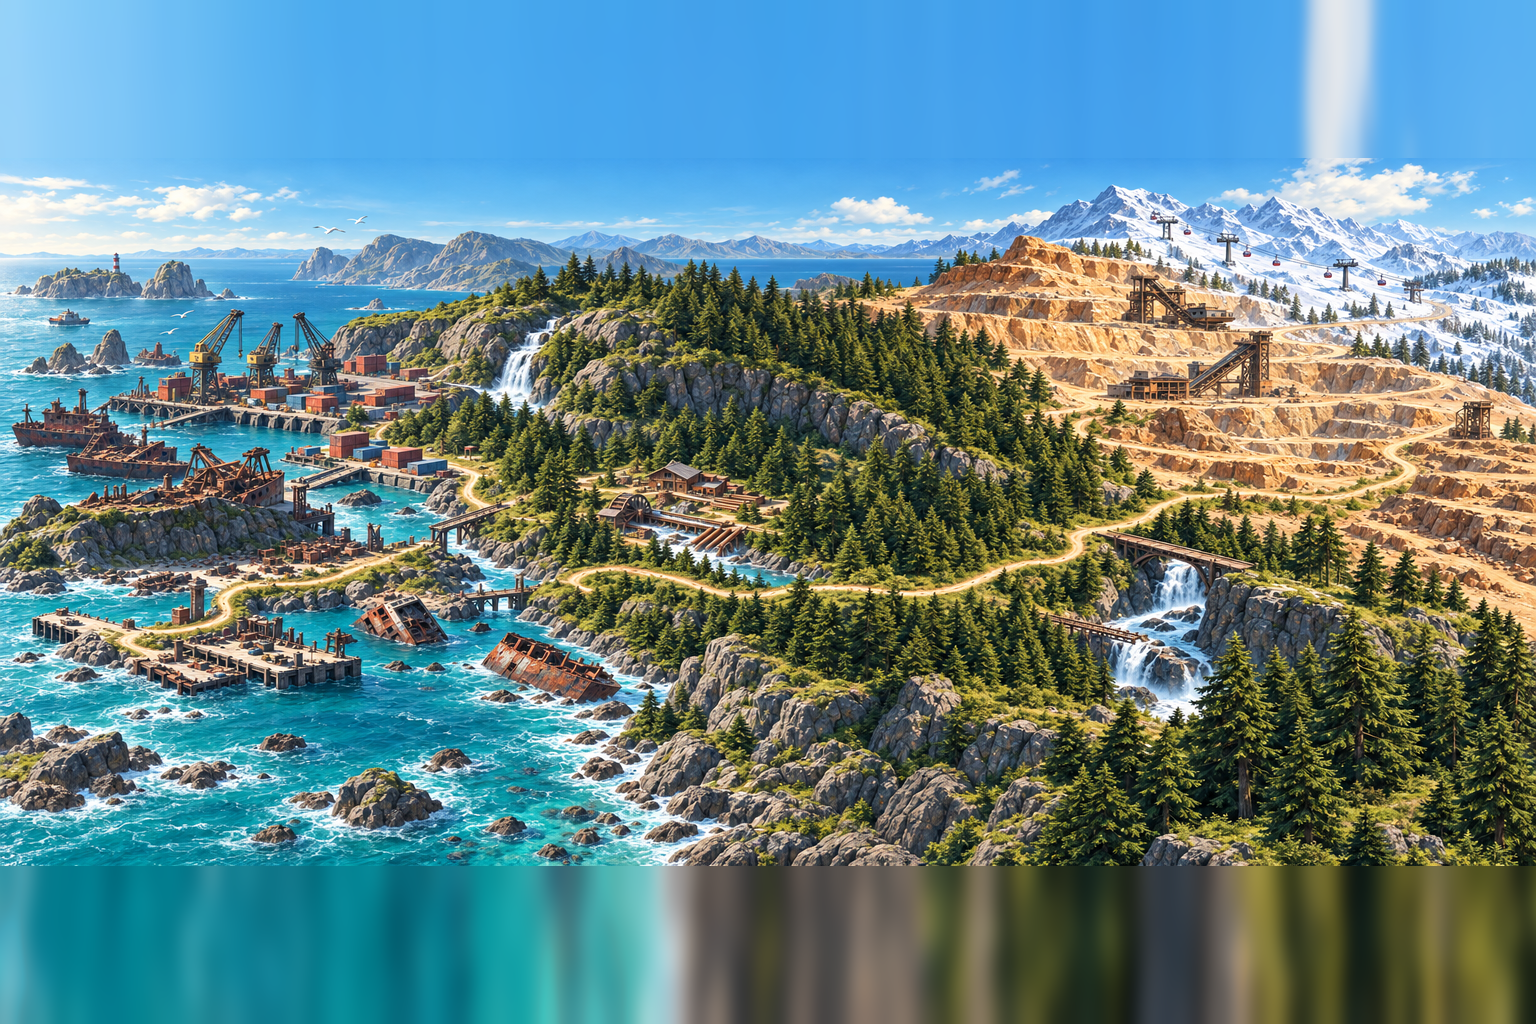
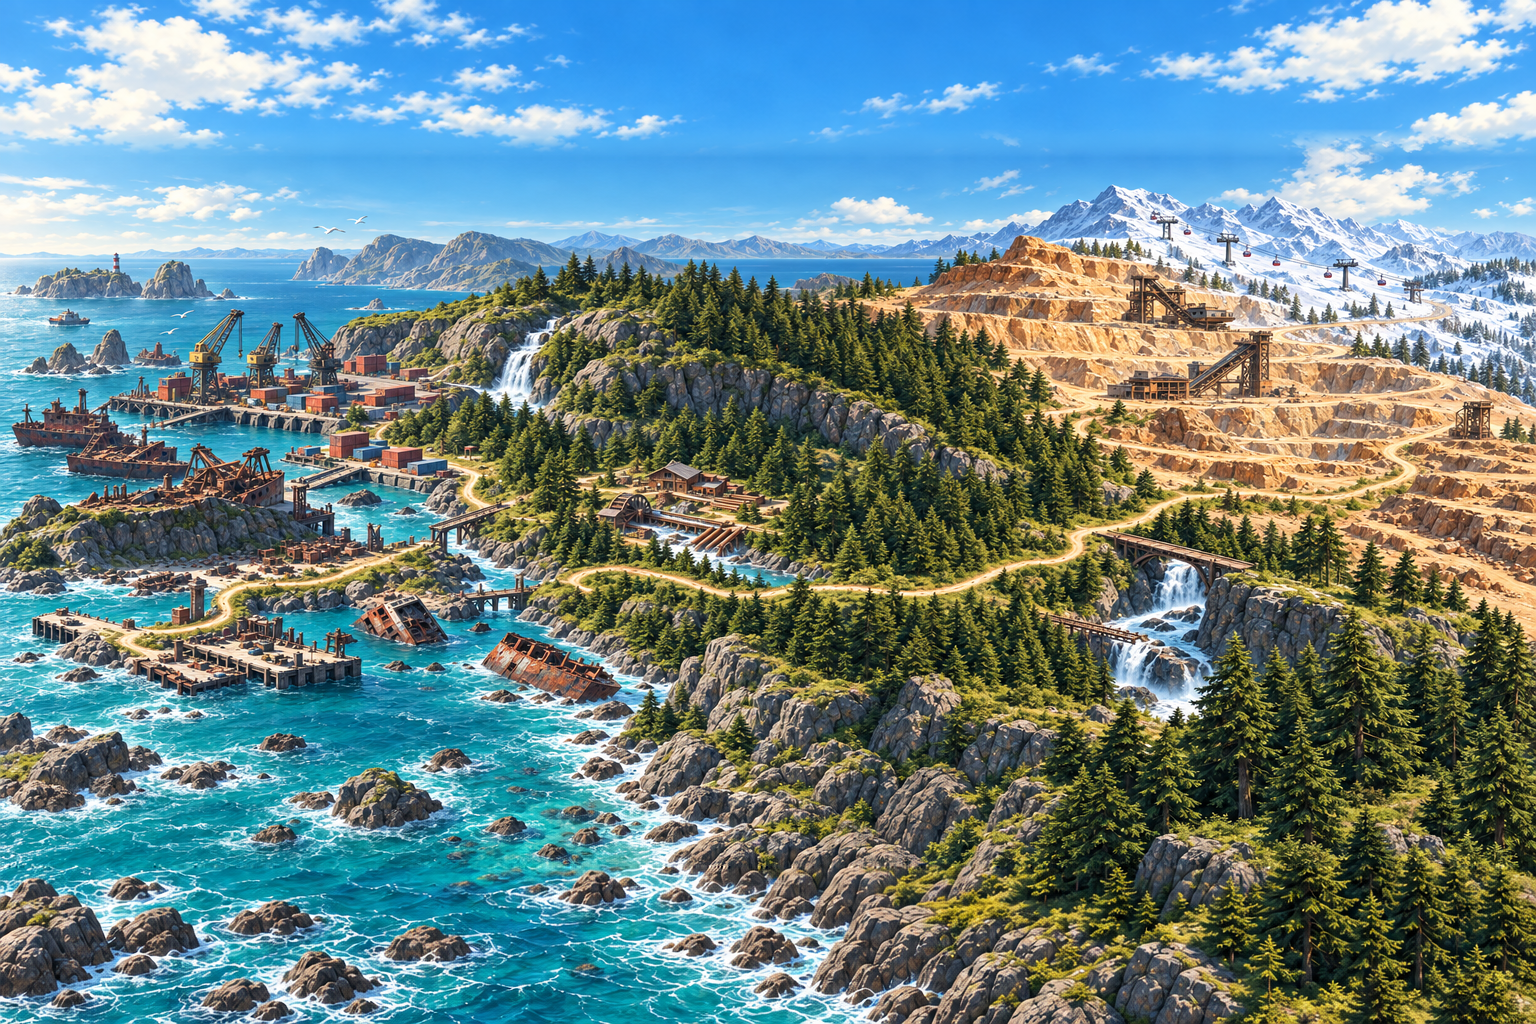
World map plate outpainted for real: the top and bottom 158 rows are painted sky and shore, not a smeared fill
Codex image_gen (brief assets/design/store-release/world/briefs/map3.md, three parallel runs) was given the
W-worldmap band y 158..866 on grey bands and painted only the bands: the band is pixel-identical to round 1
(RMSE 0 over the band and over 20-row strips at both seams), so every Brand/UI anchor is where it was. Run c
kept: clean sky with cumulus above (no light-beam streak), surf, granite and pines below, seams invisible
at full size; run b had a grey hairline at y 866. `node assets/art/worldmap.mjs --store` encodes it under the
350 KB cap: world-1536 349 KB (q58), world-1024 271 KB (q82). Lazy (world map only), never on the boot set.

diff --git a/src/boot/plan.generated.ts b/src/boot/plan.generated.ts
@@ -20,10 +20,10 @@ export const PUBLIC_BYTES = {
   "art/worldmap/region-snow-1536.webp": 275468,
   "art/worldmap/region-snowline-1024.webp": 93292,
   "art/worldmap/region-snowline-1536.webp": 125386,
-  "art/worldmap/world-1024.webp": 150390,
-  "art/worldmap/world-1536.webp": 293040,
+  "art/worldmap/world-1024.webp": 277298,
+  "art/worldmap/world-1536.webp": 356926,
   "art/worldmap/worldmap.json": 4021,
-  "art:apple-touch-icon": 4529,
+  "art:apple-touch-icon": 18187,
   "art:banner-apex-suspension": 60508,
   "art:banner-bolt-energy": 53096,
   "art:banner-kestrel-tyres": 46692,
@@ -37,26 +37,30 @@ export const PUBLIC_BYTES = {
   "art:bike-rookie-alt": 63174,
   "art:crowd-day": 119396,
   "art:crowd-night": 115990,
-  "art:emblem-512": 46818,
-  "art:favicon-16": 385,
-  "art:favicon-32": 689,
-  "art:favicon-svg": 4173,
+  "art:emblem-512": 131020,
+  "art:favicon-16": 452,
+  "art:favicon-32": 1201,
+  "art:favicon-svg": 253,
   "art:garage-plate": 141300,
   "art:graffiti-grind": 40586,
   "art:graffiti-skull": 33308,
   "art:graffiti-tag-wall": 40446,
   "art:graffiti-wheel": 39478,
-  "art:icon-1024": 46546,
-  "art:icon-192": 4713,
-  "art:icon-512": 18575,
-  "art:icon-maskable-192": 3432,
-  "art:icon-maskable-512": 11956,
+  "art:icon-1024": 398506,
+  "art:icon-192": 19643,
+  "art:icon-512": 131020,
+  "art:icon-maskable-192": 20372,
+  "art:icon-maskable-512": 134540,
   "art:keyart-canyon-1920": 231662,
   "art:keyart-canyon-960": 79316,
+  "art:keyart-harbour-1920": 474096,
+  "art:keyart-harbour-960": 163236,
   "art:keyart-industrial-1920": 263302,
   "art:keyart-industrial-960": 92208,
   "art:keyart-nalati-1920": 236120,
   "art:keyart-nalati-960": 97812,
+  "art:keyart-quarry-1920": 393248,
+  "art:keyart-quarry-960": 138678,
   "art:kit-pro": 71660,
   "art:kit-rookie": 60702,
   "art:loading-plate": 73326,
@@ -64,15 +68,15 @@ export const PUBLIC_BYTES = {
   "art:mask-grime-spatter": 118068,
   "art:mask-rivet-drips": 34704,
   "art:mask-rust-streaks": 48506,
-  "art:medal-bronze": 25292,
-  "art:medal-bronze-512": 88055,
-  "art:medal-gold": 22194,
-  "art:medal-gold-512": 79364,
-  "art:medal-platinum": 25201,
-  "art:medal-platinum-512": 86804,
-  "art:medal-silver": 22967,
-  "art:medal-silver-512": 77927,
-  "art:og-card": 115027,
+  "art:medal-bronze": 31893,
+  "art:medal-bronze-512": 110222,
+  "art:medal-gold": 30780,
+  "art:medal-gold-512": 107446,
+  "art:medal-obsidian": 28694,
+  "art:medal-obsidian-512": 88928,
+  "art:medal-silver": 30255,
+  "art:medal-silver-512": 99511,
+  "art:og-card": 259441,
   "art:plate-alpine": 138888,
   "art:plate-canyon": 20586,
   "art:plate-coast": 111820,
@@ -83,13 +87,17 @@ export const PUBLIC_BYTES = {
   "art:plate-snow": 25236,
   "art:plate-snowline": 178602,
   "art:poster-tyres": 38340,
+  "art:results-alpine": 285224,
   "art:results-canyon": 42880,
+  "art:results-coast": 235268,
   "art:results-credits": 40632,
   "art:results-foundry": 63540,
   "art:results-garage": 45622,
   "art:results-industrial": 70156,
   "art:results-nightCity": 84530,
+  "art:results-quarry": 225682,
   "art:results-snow": 65292,
+  "art:results-snowline": 222014,
   "art:sign-exit": 29040,
   "art:sign-forklift": 32300,
   "art:sign-hard-hat": 40034,
@@ -182,4 +190,4 @@ export const PUBLIC_BYTES = {
 // The offline pack as each device tier downloads it (`packMembership`, src/boot/asset-totals.ts):
 // tier-free assets in both, og.jpg in neither, one of the 1x/2x pair each. Generated, so the module
 // path and `__BOOT_TOTALS__` are the same numbers rather than two sums that could drift (totals.ts).
-export const OFFLINE_PACK_BYTES = { '1x': 6589453, '2x': 7958599 };
+export const OFFLINE_PACK_BYTES = { '1x': 8725809, '2x': 10645352 };

diff --git a/assets/design/store-release/world/briefs/map3.md b/assets/design/store-release/world/briefs/map3.md
@@ -1,0 +1,10 @@
+You are generating ONE image with the built-in image_gen tool. Generate exactly one image at 1536 x 1024 (landscape). Then copy the generated PNG to the exact output path given at the end of this prompt (mkdir -p the folder). Do not edit any other file. Report the saved path.
+
+Context: ROCKHOP is an original 2.5D side-on motorbike physics game. The attached image is its WORLD MAP terrain plate: a painterly, sunlit, richly detailed bird's-eye illustration of one continent, from a turquoise harbour bay with rusty cranes and wrecks (left), through pine forest with a sawmill and waterfalls (middle), up cream/ochre quarry terraces (right) to snowy peaks with a ski lift (top right).
+
+## THIS IMAGE: OUTPAINT the grey bands
+The attached image is 1536 x 1024. The painted scene fills only the band y 158..866. The top 158 rows and the bottom 158 rows are flat grey placeholders. Produce the SAME image with the grey bands painted for real, as a seamless continuation of the scene:
+- TOP (y 0..158): open bright blue sky continuing the sky at the top of the band, a few soft white cumulus clouds, lighter towards the horizon. No streaks, no light beams, no sun flare.
+- BOTTOM (y 866..1024): the nearest foreground, continuing exactly what touches the bottom edge of the band: on the left, turquoise sea with white surf and dark wet rocks; in the middle, grey granite boulders and cliffs; on the right, dark green pine forest and rocky ground. Same painterly detail, same light from the upper left.
+Keep the painted band (y 158..866) EXACTLY as it is: same composition, same positions, same colours, nothing moved, nothing added. The seams at y 158 and y 866 must be invisible.
+Hard rules: absolutely NO text, NO letters, NO numbers, NO logos, NO UI, NO labels, NO map markers, NO frames, NO bars, NO people. No real brands.
